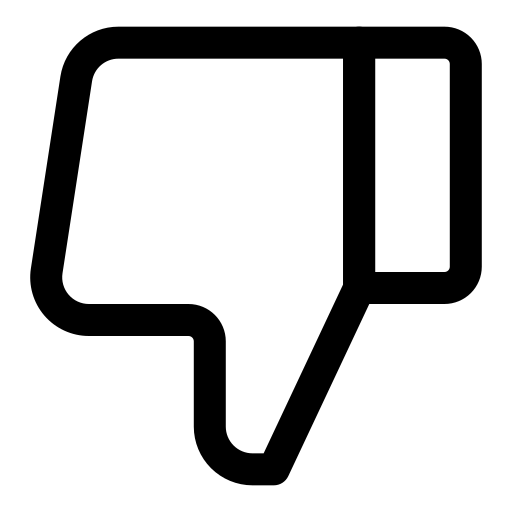
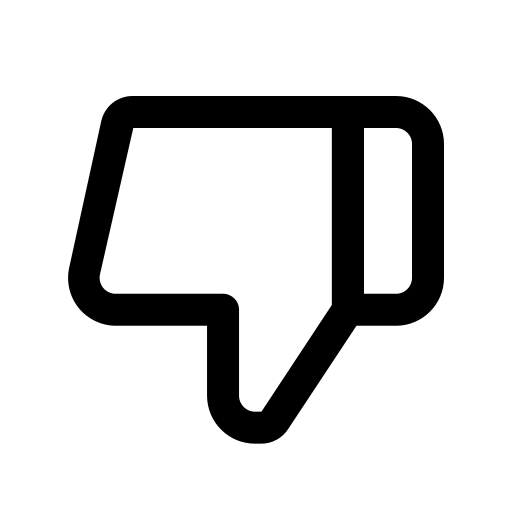
:hammer: / improve comment like  css / :fire: / rework img and delete useless file

Changed region(s): [[0.0312, 0.0312, 0.9688, 0.9688]]

diff --git a/assets/Home.css b/assets/Home.css
@@ -316,6 +316,14 @@ nav .search-bar {
     margin-bottom: 1.72vh;
 }
 
+.post .comment .likesComment {
+    display: flex;
+    align-items: center;
+    justify-content: space-evenly;
+    gap: 6.726vw;
+    width: 100%;
+}
+
 
 
 /* hashtag */
